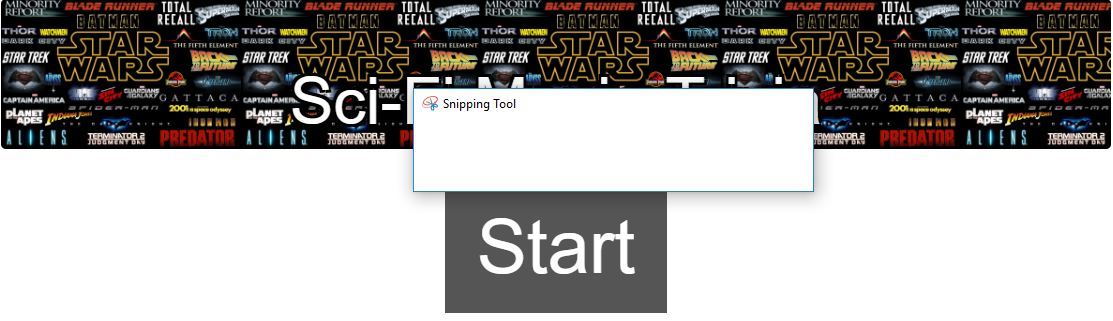
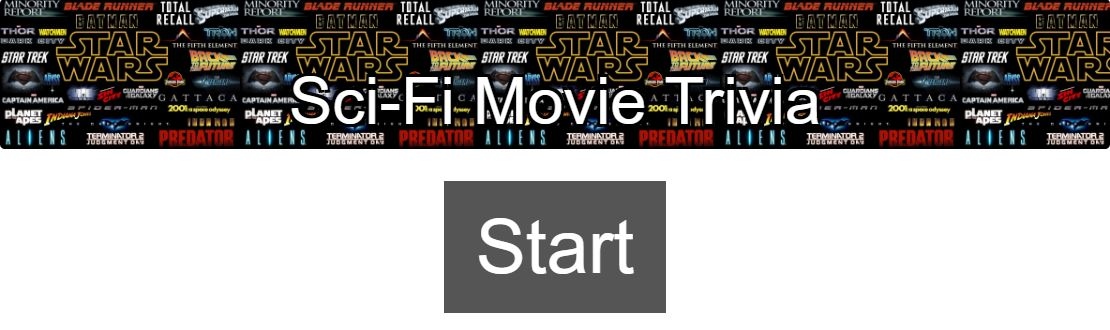
corrected start-game screenshot

Changed region(s): [[0.0, 0.0, 1.0, 0.6231], [0.4288, 0.6542, 0.582, 0.8723], [0.3982, 0.9346, 0.6126, 0.9969]]

diff --git a/README.md b/README.md
@@ -4,17 +4,17 @@
 
 This is the fifth assignment for the Coding Bootcamp delivered at University of Toronto Mississauga.
 
-In this assignment, we were required to create a trivia game using JavaScript for the business logic and jQuery to manipulate HTML. The questions and answers are held in Javascript arrays that are displayed on the screen. Functions are used to start/stop the game, run the timer, calculate and keep track of scores, and check answers. jQuery is used to dynamically manipulate the DOM and show the user the countdown, images, and different options that they can select. 
+In this assignment, we were required to create a trivia game using JavaScript for the business logic and jQuery to manipulate HTML. The questions and answers are held in Javascript arrays that are displayed on the screen. Functions are used to start/stop the game, run the timer, calculate and keep track of scores, and check answers. jQuery is used to dynamically manipulate the DOM and show the user the countdown, images, and different options that they can select.
 
 ### Description
 
-Click 'Start' to begin the game and begin displaying trivia questions.
+![start-game](https://user-images.githubusercontent.com/37091892/48739929-8ab61780-ec23-11e8-93c7-9f184627e30b.JPG)
 
-![start-game](https://user-images.githubusercontent.com/37091892/48739623-889f8900-ec22-11e8-80c9-ba93d0190825.JPG)
+Click 'Start' to begin the game and begin displaying trivia questions.
 
 ![trivia-question](https://user-images.githubusercontent.com/37091892/48739626-889f8900-ec22-11e8-9018-1ece1c171c5f.JPG)
 
-The user has 10 seconds to answer each question. A counter is displayed to show how much time is remaining. The correct answer to each question is displayed after the user's selection or if no answer is selected before time runs out.  
+The user has 10 seconds to answer each question. A counter is displayed to show how much time is remaining. The correct answer to each question is displayed after the user's selection or if no answer is selected before time runs out.
 
 ![correct-answer](https://user-images.githubusercontent.com/37091892/48739620-889f8900-ec22-11e8-82fd-3bde714195f8.JPG)
 
